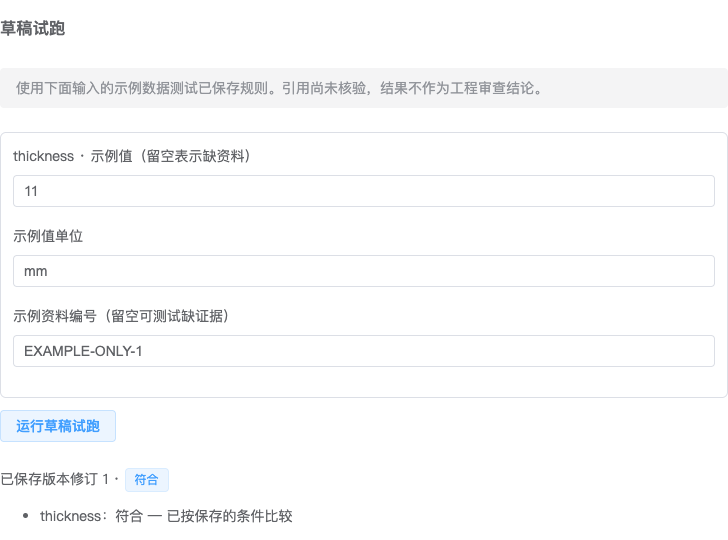
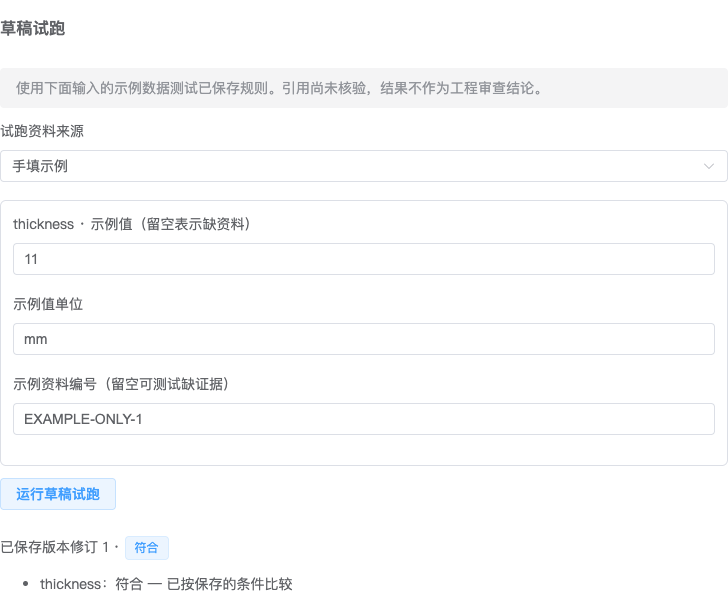
feat(ui): trial project rules using current review OCR evidence

diff --git a/frontend/src/views/AIReviewB/RuleTrialPanel.vue b/frontend/src/views/AIReviewB/RuleTrialPanel.vue
@@ -16,7 +16,12 @@ import {
   type RuleTrialResult
 } from '@/api/aicheck/projectRules'
 import type { ConditionNode } from './ruleConditionModel'
-const props = defineProps<{ projectId: string; rule: ProjectRule; disabled: boolean }>()
+const props = defineProps<{
+  projectId: string
+  rule: ProjectRule
+  disabled: boolean
+  reviewRunId?: string
+}>()
 interface InputFact {
   field: string
   type: string
@@ -24,6 +29,7 @@ interface InputFact {
   unit: string
   reference: string
 }
+const sourceMode = ref<'manual' | 'run'>('manual')
 const inputs = ref<InputFact[]>([])
 const result = ref<RuleTrialResult>()
 const error = ref('')
@@ -83,6 +89,21 @@ watch(
     }
   }
 )
+watch(
+  () => [sourceMode.value, props.reviewRunId],
+  () => {
+    generation += 1
+    result.value = undefined
+    error.value = ''
+    busy.value = false
+    if (!props.reviewRunId) sourceMode.value = 'manual'
+  }
+)
+const diagnostics: Record<string, string> = {
+  field_missing: '任务资料没有匹配字段',
+  field_ambiguous_requires_object_mapping: '存在多个同名字段，需先明确焊口或材料批次',
+  field_locator_missing_or_invalid: '字段缺少有效页码或位置'
+}
 const labels: Record<string, string> = {
   pass: '符合',
   fail: '不符合',
@@ -99,6 +120,11 @@ const reasons: Record<string, string> = {
   applicability_not_met: '适用条件不成立'
 }
 const run = async () => {
+  if (props.disabled || busy.value) return
+  if (sourceMode.value === 'run' && !props.reviewRunId) {
+    error.value = '请先选择当前节点的审查任务。'
+    return
+  }
   busy.value = true
   error.value = ''
   result.value = undefined
@@ -120,12 +146,21 @@ const run = async () => {
     ])
   )
   try {
-    const response = await trialProjectRule(props.projectId, props.rule, facts)
+    const response = await trialProjectRule(
+      props.projectId,
+      props.rule,
+      sourceMode.value === 'run' ? { reviewRunId: props.reviewRunId! } : { facts }
+    )
     if (current === generation) result.value = response.data
   } catch (cause) {
-    if (current === generation)
-      error.value =
-        cause instanceof Error ? cause.message : '试跑失败；若规则版本已变化，请重新加载后再试。'
+    if (current === generation) {
+      const message = cause instanceof Error ? cause.message : ''
+      error.value = message.includes('review_document_sources_changed_recreate_run')
+        ? '任务资料已变化，请按当前资料重新发起审查，再选择新任务试跑。'
+        : message.includes('trial_requires_frozen_document_scope')
+          ? '此任务没有可核对的资料快照，请重新发起审查后再试跑。'
+          : message || '试跑失败；若规则版本已变化，请重新加载后再试。'
+    }
   } finally {
     if (current === generation) busy.value = false
   }
@@ -135,28 +170,43 @@ const run = async () => {
   <section class="rule-trial">
     <h3>草稿试跑</h3>
     <ElAlert
-      title="使用下面输入的示例数据测试已保存规则。引用尚未核验，结果不作为工程审查结论。"
+      :title="
+        sourceMode === 'run'
+          ? '使用当前任务固定范围内的 OCR 与人工修正测试已保存规则。结果仅供试跑，不作为工程审查结论。'
+          : '使用下面输入的示例数据测试已保存规则。引用尚未核验，结果不作为工程审查结论。'
+      "
       type="info"
       :closable="false"
     />
     <p v-if="disabled">请先保存当前修改，再试跑这一版本。</p>
     <ElForm label-position="top" :disabled="disabled || busy">
-      <div v-for="input in inputs" :key="input.field" class="trial-fact">
-        <ElFormItem :label="`${input.field} · 示例值（留空表示缺资料）`">
-          <ElSelect v-if="input.type === 'boolean'" v-model="input.value" clearable
-            ><ElOption label="是" value="true" /><ElOption label="否" value="false"
-          /></ElSelect>
-          <ElInput
-            v-else
-            v-model="input.value"
-            :type="input.type === 'number' ? 'number' : 'text'"
-          />
-        </ElFormItem>
-        <ElFormItem label="示例值单位"><ElInput v-model="input.unit" /></ElFormItem>
-        <ElFormItem label="示例资料编号（留空可测试缺证据）"
-          ><ElInput v-model="input.reference"
-        /></ElFormItem>
-      </div>
+      <ElFormItem label="试跑资料来源">
+        <ElSelect v-model="sourceMode">
+          <ElOption label="手填示例" value="manual" />
+          <ElOption label="当前审查任务的 OCR 资料" value="run" :disabled="!reviewRunId" />
+        </ElSelect>
+      </ElFormItem>
+      <p v-if="sourceMode === 'run'"
+        >来源任务：{{ reviewRunId }}。资料变动或旧任务缺少快照时，请重新发起审查后再试跑。</p
+      >
+      <template v-if="sourceMode === 'manual'">
+        <div v-for="input in inputs" :key="input.field" class="trial-fact">
+          <ElFormItem :label="`${input.field} · 示例值（留空表示缺资料）`">
+            <ElSelect v-if="input.type === 'boolean'" v-model="input.value" clearable
+              ><ElOption label="是" value="true" /><ElOption label="否" value="false"
+            /></ElSelect>
+            <ElInput
+              v-else
+              v-model="input.value"
+              :type="input.type === 'number' ? 'number' : 'text'"
+            />
+          </ElFormItem>
+          <ElFormItem label="示例值单位"><ElInput v-model="input.unit" /></ElFormItem>
+          <ElFormItem label="示例资料编号（留空可测试缺证据）"
+            ><ElInput v-model="input.reference"
+          /></ElFormItem>
+        </div>
+      </template>
       <ElButton :loading="busy" :disabled="disabled" @click="run">运行草稿试跑</ElButton>
     </ElForm>
     <ElAlert v-if="error" :title="error" type="error" :closable="false" />
@@ -165,6 +215,12 @@ const run = async () => {
         >已保存版本修订 {{ result.ruleRevision }} ·
         <ElTag>{{ labels[result.result] || result.result }}</ElTag></p
       >
+      <p v-if="result.sourceReviewRunId">本次来源任务：{{ result.sourceReviewRunId }}</p>
+      <ul v-if="Object.keys(result.factDiagnostics || {}).length">
+        <li v-for="(reason, field) in result.factDiagnostics" :key="field"
+          >{{ field }}：{{ diagnostics[reason] || reason }}</li
+        >
+      </ul>
       <ul
         ><li v-for="check in result.checks" :key="check.id"
           >{{ check.field }}：{{ labels[check.result] || check.result }} —

diff --git a/frontend/src/api/aicheck/projectRules.ts b/frontend/src/api/aicheck/projectRules.ts
@@ -46,15 +46,21 @@ export const forkProjectRule = (projectId: string, rule: ProjectRule) =>
 export interface RuleTrialResult {
   result: string
   ruleRevision: number
+  sourceMode?: string
+  sourceReviewRunId?: string
+  sourceSnapshotHash?: string
+  factDiagnostics?: Record<string, string>
   checks: Array<{ id: string; field: string; result: string; reason: string }>
 }
 export const trialProjectRule = (
   projectId: string,
   rule: ProjectRule,
-  facts: Record<string, unknown>
+  source:
+    | { facts: Record<string, unknown>; reviewRunId?: never }
+    | { reviewRunId: string; facts?: never }
 ) =>
   request.post<RuleTrialResult>({
     url: `${base(projectId)}/${encodeURIComponent(rule.id)}/trial`,
-    data: { facts },
+    data: source,
     headers: headers(rule.etag)
   })

diff --git a/frontend/src/views/AIReviewB/ProjectRuleEditor.vue b/frontend/src/views/AIReviewB/ProjectRuleEditor.vue
@@ -25,7 +25,7 @@ import {
   type RuleDraftInput
 } from '@/api/aicheck/projectRules'
 
-const props = defineProps<{ projectId: string; nodeId: number }>()
+const props = defineProps<{ projectId: string; nodeId: number; reviewRunId?: string }>()
 const enabled = import.meta.env.VITE_AICHECK_WORKSTATIONS_ENABLED === 'true'
 const visible = ref(false)
 const busy = ref(false)
@@ -238,6 +238,7 @@ watch(
         v-if="selected?.projectId === projectId && selected?.executionConditions"
         :project-id="projectId"
         :rule="selected"
+        :review-run-id="reviewRunId"
         :disabled="dirty || busy"
       />
       <p

diff --git a/frontend/src/views/AIReviewB/ConversationalReviewWorkbenchB.vue b/frontend/src/views/AIReviewB/ConversationalReviewWorkbenchB.vue
@@ -1761,7 +1761,11 @@ onBeforeUnmount(() => {
             <p v-if="conversationSubtitle">{{ conversationSubtitle }}</p>
           </div>
           <div v-if="!props.embedded" class="run-meta">
-            <ProjectRuleEditor :project-id="activeProjectId" :node-id="activeNodeId" />
+            <ProjectRuleEditor
+              :project-id="activeProjectId"
+              :node-id="activeNodeId"
+              :review-run-id="activeRun?.reviewRunId"
+            />
             <ElButton :icon="View" :disabled="!activeRunId" @click="tracePanels = ['trace']"
               >查看执行轨迹</ElButton
             >

diff --git a/frontend/e2e/lab-rules/main.ts b/frontend/e2e/lab-rules/main.ts
@@ -2,4 +2,4 @@ import { createApp, h } from 'vue'
 import ElementPlus from 'element-plus'
 import 'element-plus/dist/index.css'
 import ProjectRuleEditor from '../../src/views/AIReviewB/ProjectRuleEditor.vue'
-createApp({ render: () => h(ProjectRuleEditor, { projectId: 'P-2026-HDCP-001', nodeId: 24 }) }).use(ElementPlus).mount('#app')
+createApp({ render: () => h(ProjectRuleEditor, { projectId: 'P-2026-HDCP-001', nodeId: 24, reviewRunId: 'RR-BROWSER-TRIAL' }) }).use(ElementPlus).mount('#app')

diff --git a/frontend/e2e/lab-rules/backend.py b/frontend/e2e/lab-rules/backend.py
@@ -17,6 +17,14 @@ from libs.db.repository import repo
 repo.reset()
 repo.postgres_enabled = False
 repo.sqlite_enabled = False
+from libs.review_document_scope import freeze_document_scope
+
+trial_run = {"reviewRunId": "RR-BROWSER-TRIAL", "projectId": "P-2026-HDCP-001", "nodeId": 24,
+             "businessPackId": "engineering_inspection_v1", "inputDocumentVersionIds": ["D-BROWSER-TRIAL"]}
+repo.state["ocr_parse_results"].append({"tenantId": "TENANT-DEFAULT", "documentVersionId": "D-BROWSER-TRIAL", "fields": [
+    {"id": "F-BROWSER-TRIAL", "fieldName": "thickness", "value": 11, "unit": "mm", "pageNo": 1, "bbox": [0, 0, 10, 10]}]})
+trial_run["documentScopeSnapshot"] = freeze_document_scope(trial_run, repo.state)
+repo.state["review_runs"].append(trial_run)
 client = TestClient(app)
 
 

diff --git a/docs/优化计划-焊接节点.md b/docs/优化计划-焊接节点.md
@@ -758,3 +758,11 @@ W1 之外已顺手完成：P9 R2 的 opinionSource 字段；F1 的 AI_FEEDBACK_R
 - 回應帶 sourceMode=run_ocr、sourceReviewRunId、sourceSnapshotHash，仍是 advisoryOnly=true / evidenceVerified=false：来源定位不是對真實性或法規適用性的人工背書，不保存正式結論，不發布規則。
 - 新取證、條件、文件快照、部署及 OpenAPI 回歸 98 passed；試跑 API 3 passed；Ruff 289 / 289，diff check 通過。本批未重跑完整後端，上一批 3130 passed 為修改前紀錄。
 - 前端任務來源選擇、對象／欄位映射、正式工具整合仍待完成。此入口可供後續真實案例離線比對，不代表 W3/W4/W10 已完成。
+
+### 任務 OCR 試跑介面
+
+- 工作台將目前 reviewRunId 傳入工程規則編輯器；試跑可選手填示例或目前任務 OCR，沒有任務時停用該選項。請求型別互斥，OCR 模式不送出手填 facts。
+- 切換來源／任務清除舊結果，來源任務與欄位診斷以文字顯示；未保存或執行中不重複試跑。缺快照、來源變動提供重新發起審查提示。
+- 本地 Chrome＋真實 API 通過原有手填案例、鍵盤開啟來源選單、OCR 成功判定、來源快照回應、來源切換清除結果、缺欄位診斷及未保存保護，無瀏覽器 runtime error。截圖 docs/lab/verification/browser/rule-trial-run-ocr.png。
+- 測試初版因夾具缺 tenantId，在請求正規化後觸發來源變動阻擋；已在建立測試快照前補齊夾具，未放寬生產來源校驗。Element Plus 選單內 input 被 placeholder 覆蓋，驗收改用正常鍵盤 Enter 開啟，未強制點擊。
+- vue-tsc、修改檔 ESLint／Stylelint、diff check 通過。獨立測試 API／Vite 已停止。此為元件與 API 驗證，完整登入工作台及任意歷史任務選取尚未驗收；正式條件工具整合仍待完成。

diff --git a/docs/lab/README.md b/docs/lab/README.md
@@ -213,3 +213,11 @@ cd backend
 - 回應帶 sourceMode=run_ocr、sourceReviewRunId、sourceSnapshotHash，仍是 advisoryOnly=true / evidenceVerified=false：来源定位不是對真實性或法規適用性的人工背書，不保存正式結論，不發布規則。
 - 新取證、條件、文件快照、部署及 OpenAPI 回歸 98 passed；試跑 API 3 passed；Ruff 289 / 289，diff check 通過。本批未重跑完整後端，上一批 3130 passed 為修改前紀錄。
 - 前端任務來源選擇、對象／欄位映射、正式工具整合仍待完成。此入口可供後續真實案例離線比對，不代表 W3/W4/W10 已完成。
+
+### 任務 OCR 試跑介面
+
+- 工作台將目前 reviewRunId 傳入工程規則編輯器；試跑可選手填示例或目前任務 OCR，沒有任務時停用該選項。請求型別互斥，OCR 模式不送出手填 facts。
+- 切換來源／任務清除舊結果，來源任務與欄位診斷以文字顯示；未保存或執行中不重複試跑。缺快照、來源變動提供重新發起審查提示。
+- 本地 Chrome＋真實 API 通過原有手填案例、鍵盤開啟來源選單、OCR 成功判定、來源快照回應、來源切換清除結果、缺欄位診斷及未保存保護，無瀏覽器 runtime error。截圖 docs/lab/verification/browser/rule-trial-run-ocr.png。
+- 測試初版因夾具缺 tenantId，在請求正規化後觸發來源變動阻擋；已在建立測試快照前補齊夾具，未放寬生產來源校驗。Element Plus 選單內 input 被 placeholder 覆蓋，驗收改用正常鍵盤 Enter 開啟，未強制點擊。
+- vue-tsc、修改檔 ESLint／Stylelint、diff check 通過。獨立測試 API／Vite 已停止。此為元件與 API 驗證，完整登入工作台及任意歷史任務選取尚未驗收；正式條件工具整合仍待完成。
